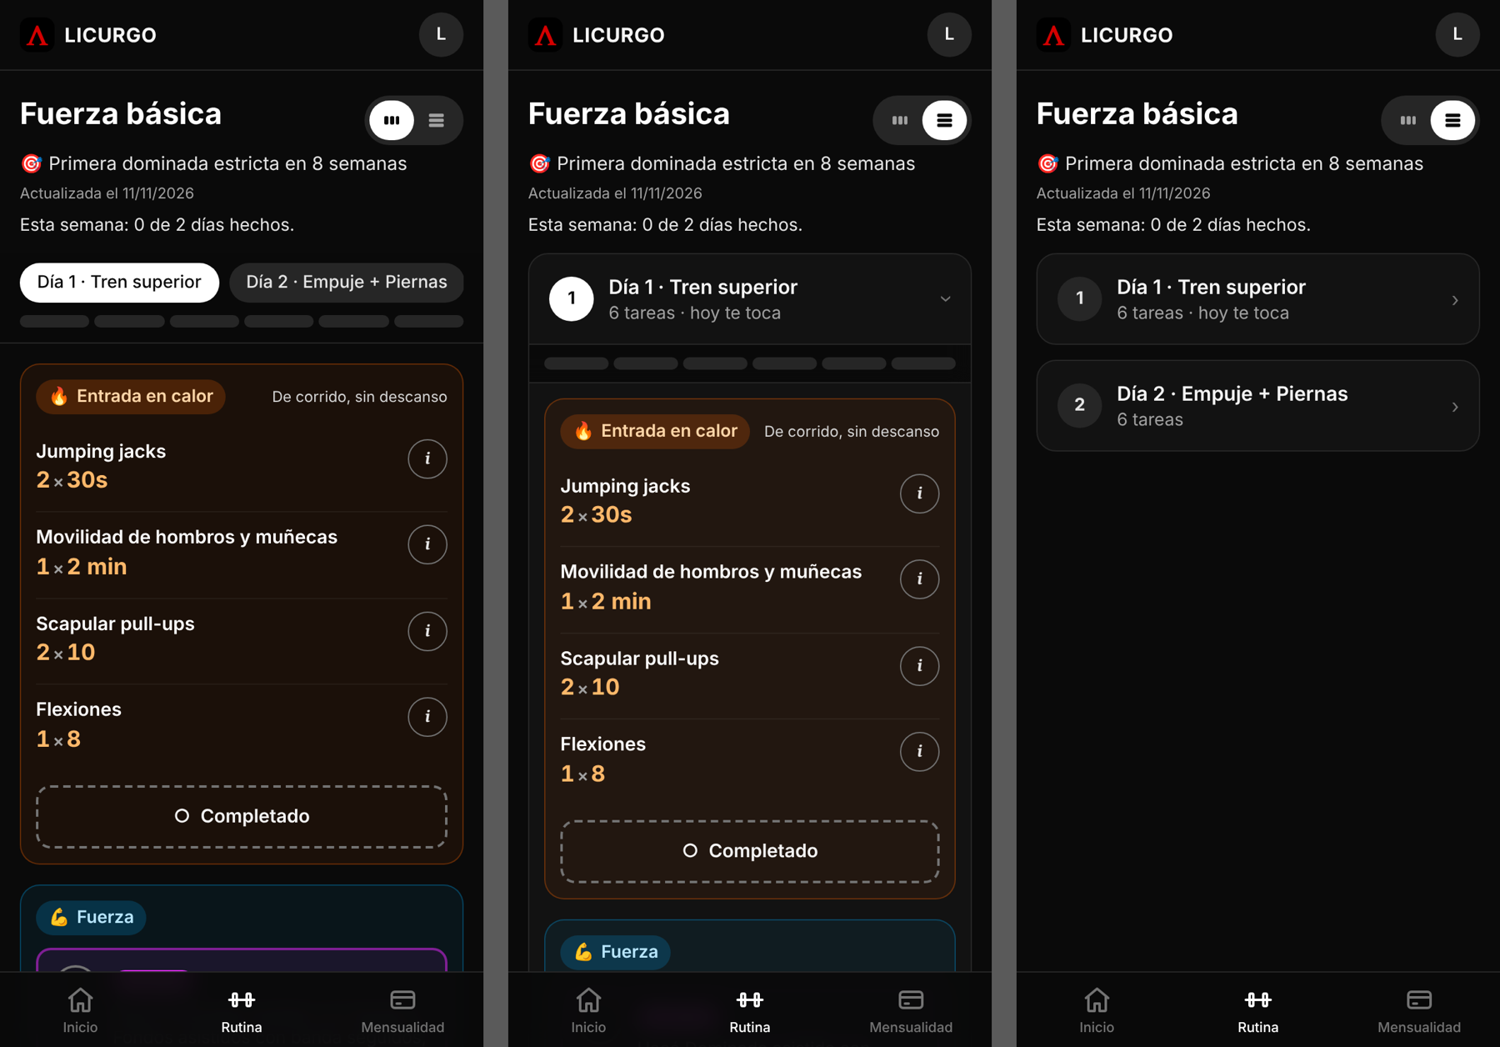
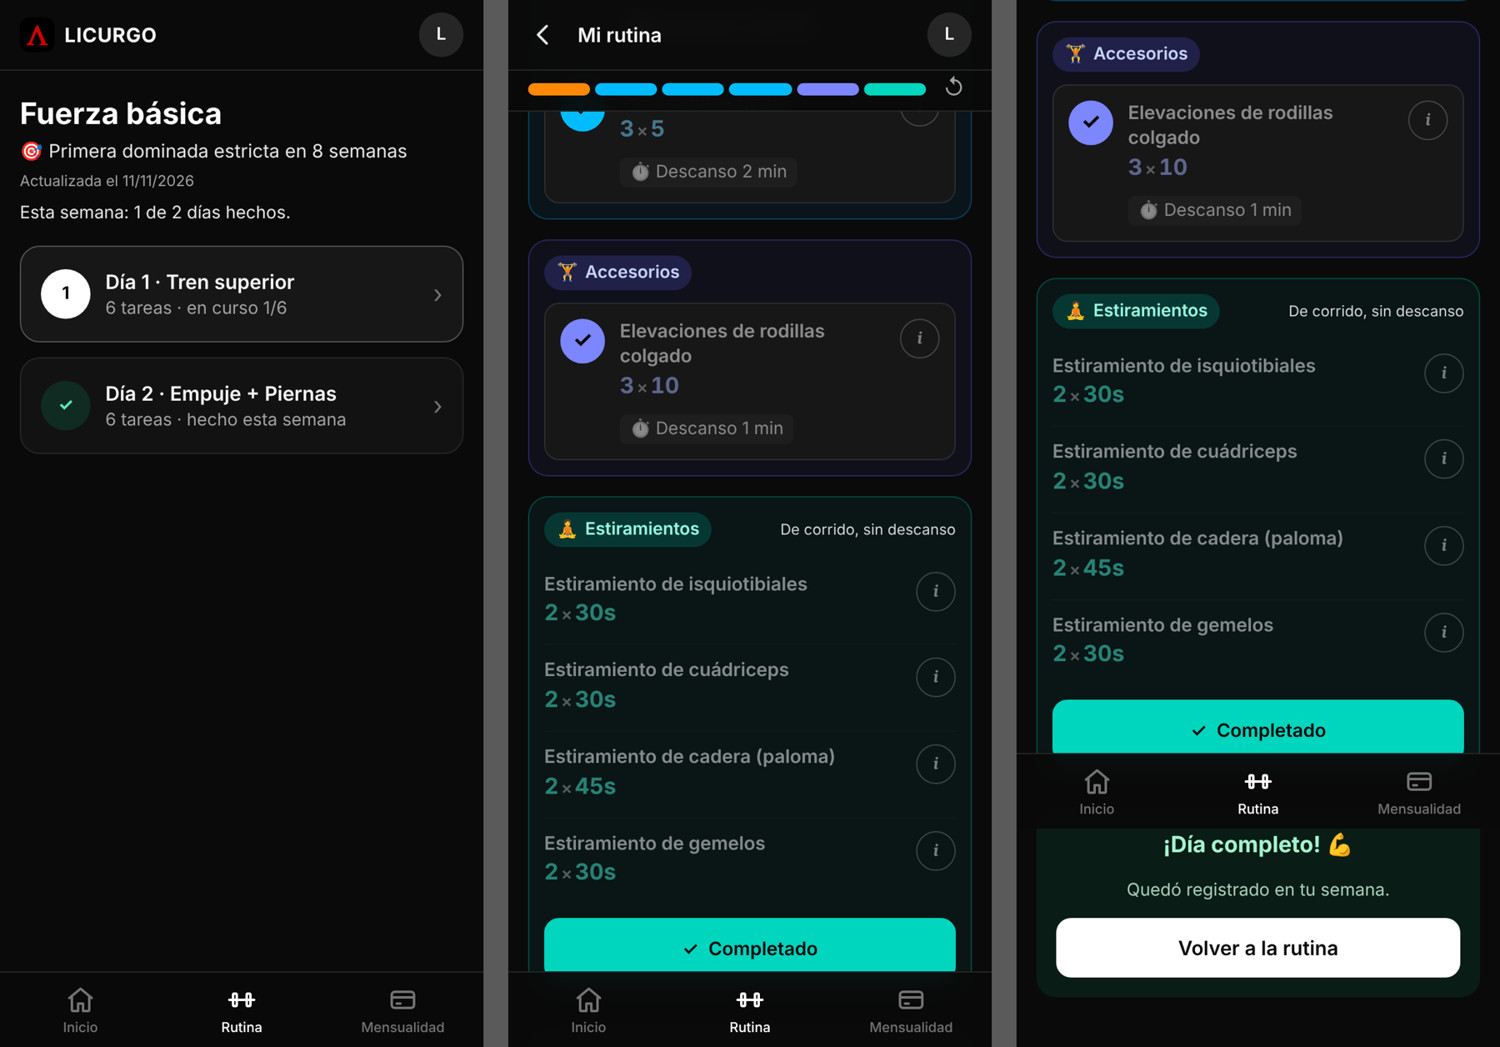
Rutina del alumno: lista de días y cada día en su propia pantalla
- Sin el botón de vistas: /alumno/rutina muestra los días en vertical (hoy te toca, en curso N/M, hecho esta semana)
- Tocar un día abre /alumno/rutina/dia/:numero con "‹" para volver, barra de progreso fija y checklist
- Al completar: "¡Día completo!" con botón para volver a la rutina
- "Entrenar" del Inicio abre directamente el día que toca

Claude-Session: https://claude.ai/code/session_01W37sq4Anm4RfpvTwKy8Nhc

diff --git a/src/pages/alumno/MiRutina.jsx b/src/pages/alumno/MiRutina.jsx
@@ -1,4 +1,5 @@
 import { useEffect, useMemo, useRef, useState } from 'react'
+import { Link, Navigate, useParams } from 'react-router-dom'
 import { supabase } from '../../lib/supabase'
 import { formatearFecha, hoyAR, mensajeError } from '../../lib/utils'
 import { TEXTO_VAMOS, agruparPorDia, nombreCadena, tareasDelDia, textoDescanso } from '../../lib/rutinas'
@@ -9,23 +10,21 @@ import Aviso from '../../components/Aviso'
 import { CADENA, estiloSeccion as estilo } from '../../lib/secciones'
 
 
-// La vista elegida (días en horizontal o lista desplegable) se recuerda en este celular
-const CLAVE_VISTA = 'licurgo.rutina.vista'
-const leerVista = () => { try { return localStorage.getItem(CLAVE_VISTA) === 'lista' ? 'lista' : 'dias' } catch { return 'dias' } }
-const guardarVista = (v) => { try { localStorage.setItem(CLAVE_VISTA, v) } catch { /* sin almacenamiento */ } }
-
 // CU11 – El alumno consulta su rutina activa y va tildando lo que hace en el día.
 // Un tilde por ejercicio, salvo:
 //   · Entrada en calor y Estiramientos → un tilde para toda la sección (se hacen de corrido)
 //   · Bi-series / tri-series           → un tilde para todo el bloque de ejercicios
-// La barra de progreso queda fija arriba al hacer scroll.
-// Dos vistas (botón arriba a la derecha): por días (chips horizontales, un día por vez)
-// o lista (los días uno debajo del otro; tocar uno lo despliega y tocarlo de nuevo lo minimiza).
+// Dos pantallas:
+//   · /alumno/rutina             → los días de la rutina uno debajo del otro
+//   · /alumno/rutina/dia/:numero → la pantalla del día con su checklist (se vuelve con "‹")
+// La barra de progreso del día queda fija arriba al hacer scroll.
 // El checklist se reinicia todos los días; al completar un día queda registrado en la semana
 // (tabla dias_completados) y al día siguiente se abre el próximo día pendiente.
 // Tocando ⓘ se ve la descripción del ejercicio y la observación del coach.
 // Las observaciones privadas del coach (lesiones, etc.) NO se muestran: son otra tabla.
 export default function MiRutina() {
+  const { numero } = useParams()
+  const diaUrl = numero ? Number(numero) : null      // null = lista de días
   const [filas, setFilas] = useState([])
   const [cargando, setCargando] = useState(true)
   const [error, setError] = useState('')
@@ -33,8 +32,6 @@ export default function MiRutina() {
   const [completados, setCompletados] = useState([]) // [{ numero_dia, fecha, creado }] desde el lunes
   const [diaVista, setDiaVista] = useState(null)     // día que se muestra en esta visita
   const cola = useRef(Promise.resolve())              // los cambios en la base salen de a uno, en orden
-  const [vista, setVista] = useState(leerVista)        // 'dias' (horizontal) o 'lista' (vertical, desplegable)
-  const [abierto, setAbierto] = useState(undefined)    // en la lista: día desplegado (undefined = el que toca hoy)
   const diaVistaInicial = useRef(null)                 // el día que tocaba al entrar
 
   useEffect(() => {
@@ -75,7 +72,7 @@ export default function MiRutina() {
   const dias = useMemo(() => agruparPorDia(filas), [filas])
   const rutina = filas[0]
   const hoy = hoyAR()
-  const diaActual = dias.find((d) => d.numero === diaVista) ?? dias[0]
+  const diaActual = dias.find((d) => d.numero === (diaUrl ?? diaVista)) ?? dias[0]
   const tareas = useMemo(() => (diaActual ? tareasDelDia(diaActual.items) : []), [diaActual])
   const hechosSemana = completadosEnSemana(completados, hoy)
   const completo = tareas.length > 0 && tareas.every((t) => check.marcados.includes(t.id))
@@ -105,20 +102,13 @@ export default function MiRutina() {
     setCheck(nuevo)
     guardarChecklist(rutina.rutina_id, nuevo)
   }
-  const elegirDia = (numero, subir = true) => {
-    setDiaVista(numero)
-    actualizar({ ...check, fecha: hoyAR(), dia: numero })
-    if (subir) window.scrollTo({ top: 0, behavior: 'smooth' })
-  }
-  const cambiarVista = (v) => { setVista(v); guardarVista(v) }
-  // Lista: tocar un día lo despliega (y pasa a ser el día del checklist); tocarlo de nuevo lo minimiza
-  const alternarDia = (numero) => {
-    const abiertoAhora = abierto === undefined ? diaActual?.numero : abierto
-    if (abiertoAhora === numero) return setAbierto(null)
-    setAbierto(numero)
-    elegirDia(numero, false)
-    requestAnimationFrame(() => document.getElementById(`dia-${numero}`)?.scrollIntoView({ behavior: 'smooth', block: 'start' }))
-  }
+  // Al abrir la pantalla de un día, ese pasa a ser el día del checklist de hoy
+  useEffect(() => {
+    if (!rutina || !diaUrl || check.dia === diaUrl || !dias.some((d) => d.numero === diaUrl)) return
+    setDiaVista(diaUrl)
+    actualizar({ ...check, fecha: hoyAR(), dia: diaUrl })
+  }, [diaUrl, rutina?.rutina_id]) // eslint-disable-line react-hooks/exhaustive-deps
+
   const marcar = (id) => {
     const quitando = check.marcados.includes(id)
     actualizar(alternarMarca({ ...check, fecha: hoyAR(), dia: diaActual.numero }, id))
@@ -145,17 +135,40 @@ export default function MiRutina() {
   const yaHechoEstaSemana = hechosSemana.has(diaActual.numero) && !completo
   const bloques = [...new Set(tareas.map((t) => t.bloque))]
 
-  const barra = <BarraProgreso tareas={tareas} hecha={hecha} hechos={hechos} onReiniciar={reiniciar} />
-  const contenido = <ContenidoDia tareas={tareas} bloques={bloques} hecha={hecha} marcar={marcar} />
-  const diaAbierto = abierto === undefined ? diaActual.numero : abierto
+  // ----- Pantalla del día -----
+  if (diaUrl) {
+    if (!dias.some((d) => d.numero === diaUrl)) return <Navigate to="/alumno/rutina" replace />
+    return (
+      <div className="mx-auto max-w-md pb-10">
+        <header className="mb-3">
+          <p className="text-sm text-neutral-400">{rutina.rutina}</p>
+          <h1 className="text-2xl font-bold leading-tight text-white">Día {diaActual.numero}{diaActual.nombre && ` · ${diaActual.nombre}`}</h1>
+        </header>
+        <div className="sticky top-[57px] z-[5] -mx-4 mb-4 space-y-1.5 border-b border-neutral-800 bg-neutral-950/95 px-4 pb-3 pt-2.5 backdrop-blur">
+          <BarraProgreso tareas={tareas} hecha={hecha} hechos={hechos} onReiniciar={reiniciar} />
+          {yaHechoEstaSemana && <p className="text-xs text-neutral-400">✓ Este día ya lo hiciste esta semana.</p>}
+        </div>
+        <ContenidoDia tareas={tareas} bloques={bloques} hecha={hecha} marcar={marcar} />
+        {completo && (
+          <div className="mt-6 space-y-3 rounded-2xl bg-emerald-500/10 p-4 text-center">
+            <p className="text-lg font-bold text-emerald-200">¡Día completo! 💪</p>
+            <p className="text-sm text-emerald-100/80">Quedó registrado en tu semana.</p>
+            <Link to="/alumno/rutina" className="block rounded-xl bg-white py-3 font-semibold text-neutral-950">Volver a la rutina</Link>
+          </div>
+        )}
+      </div>
+    )
+  }
 
+  // ----- Lista de días -----
+  const marcadosDe = (d) => {
+    const ids = tareasDelDia(d.items).map((t) => t.id)
+    return { total: ids.length, hechas: check.dia === d.numero ? ids.filter((id) => check.marcados.includes(id)).length : 0 }
+  }
   return (
     <div className="mx-auto max-w-md pb-10">
-      <header className="mb-3">
-        <div className="flex items-start justify-between gap-3">
-          <h1 className="text-2xl font-bold leading-tight text-white">{rutina.rutina}</h1>
-          {dias.length > 1 && <SelectorVista vista={vista} onCambiar={cambiarVista} />}
-        </div>
+      <header className="mb-4">
+        <h1 className="text-2xl font-bold leading-tight text-white">{rutina.rutina}</h1>
         {rutina.objetivo && <p className="mt-1 text-[15px] text-neutral-200">🎯 {rutina.objetivo}</p>}
         <p className="mt-1 text-xs text-neutral-400">Actualizada el {formatearFecha(rutina.fecha_actualizacion)}</p>
         {dias.length > 1 && (
@@ -167,89 +180,35 @@ export default function MiRutina() {
         )}
       </header>
 
-      {vista === 'lista' && dias.length > 1 ? (
-        // Vista vertical: los días uno debajo del otro; tocar despliega o minimiza
-        <div className="space-y-3">
-          {dias.map((d) => {
-            const desplegado = diaAbierto === d.numero
-            const hecho = hechosSemana.has(d.numero)
-            const cantidad = tareasDelDia(d.items).length
-            return (
-              <section key={d.numero} id={`dia-${d.numero}`} className="scroll-mt-16 overflow-hidden rounded-2xl border border-neutral-800 bg-neutral-900/60">
-                <button onClick={() => alternarDia(d.numero)} aria-expanded={desplegado}
-                  className="flex w-full items-center gap-3 px-4 py-3.5 text-left active:bg-neutral-800">
-                  <span className={`flex h-9 w-9 shrink-0 items-center justify-center rounded-full text-sm font-bold ${
-                    hecho ? 'bg-emerald-500/15 text-emerald-300' : desplegado ? 'bg-white text-neutral-950' : 'bg-neutral-800 text-neutral-200'}`}>
-                    {hecho ? '✓' : d.numero}
+      <ul className="space-y-3">
+        {dias.map((d) => {
+          const hecho = hechosSemana.has(d.numero)
+          const { total, hechas } = marcadosDe(d)
+          const enCurso = hechas > 0 && hechas < total
+          const toca = !hecho && d.numero === diaVistaInicial.current
+          return (
+            <li key={d.numero}>
+              <Link to={`/alumno/rutina/dia/${d.numero}`}
+                className={`flex items-center gap-3 rounded-2xl border px-4 py-4 active:bg-neutral-800 ${
+                  toca || enCurso ? 'border-neutral-600 bg-neutral-900' : 'border-neutral-800 bg-neutral-900/60'}`}>
+                <span className={`flex h-10 w-10 shrink-0 items-center justify-center rounded-full text-sm font-bold ${
+                  hecho ? 'bg-emerald-500/15 text-emerald-300' : toca || enCurso ? 'bg-white text-neutral-950' : 'bg-neutral-800 text-neutral-200'}`}>
+                  {hecho ? '✓' : d.numero}
+                </span>
+                <span className="min-w-0 flex-1">
+                  <span className="block truncate font-semibold">Día {d.numero}{d.nombre && ` · ${d.nombre}`}</span>
+                  <span className="block text-sm text-neutral-400">
+                    {total} {total === 1 ? 'tarea' : 'tareas'}
+                    {hecho ? ' · hecho esta semana' : enCurso ? ` · en curso ${hechas}/${total}` : toca ? ' · hoy te toca' : ''}
                   </span>
-                  <span className="min-w-0 flex-1">
-                    <span className="block truncate font-semibold">Día {d.numero}{d.nombre && ` · ${d.nombre}`}</span>
-                    <span className="block text-sm text-neutral-400">
-                      {cantidad} {cantidad === 1 ? 'tarea' : 'tareas'}
-                      {hecho ? ' · hecho esta semana' : d.numero === diaVistaInicial.current ? ' · hoy te toca' : ''}
-                    </span>
-                  </span>
-                  <span aria-hidden className={`text-neutral-500 transition-transform ${desplegado ? 'rotate-90' : ''}`}>›</span>
-                </button>
-                {desplegado && (
-                  <div className="border-t border-neutral-800 px-3 pb-3">
-                    <div className="sticky top-[57px] z-[5] -mx-3 mb-3 border-b border-neutral-800 bg-neutral-950/95 px-3 pb-2.5 pt-2.5 backdrop-blur">
-                      {barra}
-                      {yaHechoEstaSemana && <p className="mt-1.5 text-xs text-neutral-400">✓ Este día ya lo hiciste esta semana.</p>}
-                    </div>
-                    {contenido}
-                  </div>
-                )}
-              </section>
-            )
-          })}
-        </div>
-      ) : (
-        <>
-          {/* Vista por días: fija debajo del menú, días + progreso siempre a la vista */}
-          <div className="sticky top-[57px] z-[5] -mx-4 mb-4 space-y-2.5 border-b border-neutral-800 bg-neutral-950/95 px-4 pb-3 pt-2 backdrop-blur">
-            {dias.length > 1 && (
-              <div className="flex gap-2 overflow-x-auto [scrollbar-width:none]">
-                {dias.map((d) => {
-                  const activo = d.numero === diaActual.numero
-                  const hecho = hechosSemana.has(d.numero)
-                  return (
-                    <button key={d.numero} onClick={() => elegirDia(d.numero)} aria-pressed={activo}
-                      title={hecho ? 'Ya lo hiciste esta semana' : undefined}
-                      className={`whitespace-nowrap rounded-full px-3.5 py-1.5 text-sm font-medium transition-colors ${
-                        activo ? 'bg-white text-neutral-950' : 'bg-neutral-800 text-neutral-200 hover:bg-neutral-700'
-                      }`}>
-                      {hecho && <span aria-label="hecho esta semana" className={activo ? 'text-emerald-600' : 'text-emerald-400'}>✓ </span>}
-                      Día {d.numero}{d.nombre && ` · ${d.nombre}`}
-                    </button>
-                  )
-                })}
-              </div>
-            )}
-            {barra}
-            {yaHechoEstaSemana && <p className="text-xs text-neutral-400">✓ Este día ya lo hiciste esta semana.</p>}
-          </div>
-          {contenido}
-        </>
-      )}
-    </div>
-  )
-}
-
-// Botón para cambiar la vista: días en horizontal (uno por vez) o en lista desplegable
-function SelectorVista({ vista, onCambiar }) {
-  const op = [
-    { id: 'dias', texto: 'Ver por días', icono: <><rect x="3" y="7" width="5" height="10" rx="1.5" /><rect x="10" y="7" width="5" height="10" rx="1.5" /><rect x="17" y="7" width="4" height="10" rx="1.5" /></> },
-    { id: 'lista', texto: 'Ver como lista', icono: <><rect x="3" y="4" width="18" height="4" rx="1.5" /><rect x="3" y="10" width="18" height="4" rx="1.5" /><rect x="3" y="16" width="18" height="4" rx="1.5" /></> },
-  ]
-  return (
-    <div className="flex shrink-0 rounded-full bg-neutral-800 p-1" role="group" aria-label="Vista de la rutina">
-      {op.map((o) => (
-        <button key={o.id} onClick={() => onCambiar(o.id)} aria-pressed={vista === o.id} aria-label={o.texto} title={o.texto}
-          className={`flex h-8 w-9 items-center justify-center rounded-full transition-colors ${vista === o.id ? 'bg-white text-neutral-950' : 'text-neutral-400'}`}>
-          <svg viewBox="0 0 24 24" className="h-4 w-4" fill="currentColor" aria-hidden>{o.icono}</svg>
-        </button>
-      ))}
+                </span>
+                {toca && !enCurso && <span className="shrink-0 rounded-full bg-red-600 px-3 py-1 text-xs font-bold text-white">Hoy</span>}
+                <span aria-hidden className="shrink-0 text-xl text-neutral-500">›</span>
+              </Link>
+            </li>
+          )
+        })}
+      </ul>
     </div>
   )
 }

diff --git a/src/components/LayoutAlumno.jsx b/src/components/LayoutAlumno.jsx
@@ -4,11 +4,12 @@ import { useAuth } from '../context/AuthContext'
 import InstalarApp from './InstalarApp'
 import { Atras, IconoInicio, IconoMensualidad, IconoRutina, IconoSalir } from './Iconos'
 
-// Pantallas secundarias: se abren desde Mensualidad y vuelven con "‹"
-const SECUNDARIAS = {
-  '/alumno/pagar': 'Pagar por transferencia',
-  '/alumno/comprobantes': 'Mis comprobantes',
-}
+// Pantallas secundarias: se abren desde otra pantalla y vuelven con "‹"
+const SECUNDARIAS = [
+  { ruta: /^\/alumno\/pagar$/, titulo: 'Pagar por transferencia', volver: '/alumno/mensualidad' },
+  { ruta: /^\/alumno\/comprobantes$/, titulo: 'Mis comprobantes', volver: '/alumno/mensualidad' },
+  { ruta: /^\/alumno\/rutina\/dia\/\d+$/, titulo: 'Mi rutina', volver: '/alumno/rutina' },
+]
 
 const PESTANIAS = [
   { to: '/alumno', texto: 'Inicio', Icono: IconoInicio, end: true },
@@ -22,7 +23,7 @@ const PESTANIAS = [
 // La barra superior mide 56px + 1px de borde: la barra de progreso de la rutina se pega debajo (top-[57px]).
 export default function LayoutAlumno() {
   const { pathname } = useLocation()
-  const secundaria = SECUNDARIAS[pathname]
+  const secundaria = SECUNDARIAS.find((x) => x.ruta.test(pathname))
 
   return (
     <div className="min-h-screen">
@@ -30,10 +31,10 @@ export default function LayoutAlumno() {
         <div className="mx-auto flex h-14 max-w-md items-center gap-2 px-4">
           {secundaria ? (
             <>
-              <Link to="/alumno/mensualidad" aria-label="Volver" className="-ml-2 flex h-10 w-10 items-center justify-center rounded-full text-neutral-200 active:bg-neutral-800">
+              <Link to={secundaria.volver} aria-label="Volver" className="-ml-2 flex h-10 w-10 items-center justify-center rounded-full text-neutral-200 active:bg-neutral-800">
                 <Atras />
               </Link>
-              <h1 className="min-w-0 flex-1 truncate text-base font-semibold">{secundaria}</h1>
+              <span className="min-w-0 flex-1 truncate text-base font-semibold">{secundaria.titulo}</span>
             </>
           ) : (
             <>

diff --git a/src/pages/alumno/InicioAlumno.jsx b/src/pages/alumno/InicioAlumno.jsx
@@ -160,7 +160,7 @@ function EntrenarHoy({ dia, hechoHoy, hayRutina }) {
     return <p className="rounded-2xl bg-neutral-900 px-4 py-3 text-sm text-neutral-400">Cuando tu coach te arme la rutina, vas a verla acá.</p>
   }
   return (
-    <Link to="/alumno/rutina" className="flex items-center gap-3 rounded-2xl bg-white px-4 py-3.5 text-neutral-950 active:bg-neutral-200">
+    <Link to={hechoHoy || !dia ? '/alumno/rutina' : `/alumno/rutina/dia/${dia.numero}`} className="flex items-center gap-3 rounded-2xl bg-white px-4 py-3.5 text-neutral-950 active:bg-neutral-200">
       <span className="min-w-0 flex-1">
         <span className="block text-xs font-semibold text-neutral-500">{hechoHoy ? 'Ya entrenaste hoy 💪' : 'Hoy te toca'}</span>
         <span className="block truncate text-lg font-bold">

diff --git a/src/lib/actualizacion.js b/src/lib/actualizacion.js
@@ -21,7 +21,7 @@ const CADA = 5 * 60 * 1000
 const CLAVE_RECARGA = 'licurgo.recargado-para'
 
 // Pantallas donde recargar no pierde nada (solo se mira o se tilda; el checklist vive en localStorage)
-const RUTAS_SEGURAS = [/^\/$/, /^\/alumno$/, /^\/alumno\/rutina$/, /^\/alumno\/comprobantes$/, /^\/alumno\/mensualidad$/, /^\/coach$/, /^\/recepcion$/, /^\/admin$/, /^\/admin\/concurrencia$/]
+const RUTAS_SEGURAS = [/^\/$/, /^\/alumno$/, /^\/alumno\/rutina$/, /^\/alumno\/rutina\/dia\/\d+$/, /^\/alumno\/comprobantes$/, /^\/alumno\/mensualidad$/, /^\/coach$/, /^\/recepcion$/, /^\/admin$/, /^\/admin\/concurrencia$/]
 
 export const hayVersionNueva = (publicada, actual = VERSION_APP) =>
   Boolean(publicada) && actual !== 'dev' && publicada !== actual

diff --git a/src/App.jsx b/src/App.jsx
@@ -62,6 +62,7 @@ export default function App() {
           <Route element={<RutaProtegida roles={['Alumno']} />}>
             <Route path="/alumno" element={<InicioAlumno />} />
             <Route path="/alumno/rutina" element={<MiRutina />} />
+            <Route path="/alumno/rutina/dia/:numero" element={<MiRutina />} />
             <Route path="/alumno/mensualidad" element={<Mensualidad />} />
             <Route path="/alumno/pagar" element={<PagarCuota />} />
             <Route path="/alumno/comprobantes" element={<MisComprobantes />} />

diff --git a/docs/modulos/Alumno-app.md b/docs/modulos/Alumno-app.md
@@ -7,7 +7,7 @@ Tres pestañas abajo, como una app de celular:
 | Pestaña | Ruta | Qué tiene |
 |---|---|---|
 | **Inicio** | `/alumno` | Foto de Licurgo con la frase del día, racha, "Hoy te toca", calendario del mes, últimas 8 semanas y contacto con Gero |
-| **Rutina** | `/alumno/rutina` | El checklist del día, con dos vistas |
+| **Rutina** | `/alumno/rutina` | La lista de días; cada día se abre en su propia pantalla con el checklist |
 | **Mensualidad** | `/alumno/mensualidad` | Estado de la cuota, pagar por transferencia, mis comprobantes, apto médico (B4) |
 
 ![Inicio y Mensualidad](img/alumno-inicio.png)
@@ -25,14 +25,13 @@ Tres pestañas abajo, como una app de celular:
 - **Cuota:** si vence en 3 días o venció, un aviso lleva a Mensualidad.
 - **Contacto:** foto de Gero, "Escribile a Gero" → WhatsApp (número de *Datos de cobro*, hoy 381 624-5748).
 
-## Rutina: dos vistas
+## Rutina: lista de días y pantalla del día
 
-Botón arriba a la derecha (se recuerda en el celular):
+- **`/alumno/rutina`**: los días de la rutina uno debajo del otro, con cuántas tareas tienen y su estado: *hoy te toca* (con la etiqueta **Hoy**), *en curso 3/6* o *✓ hecho esta semana*. Sin checklist en esta pantalla, para no sobrecargarla.
+- **`/alumno/rutina/dia/:numero`**: tocar un día abre su pantalla aparte (con "‹" para volver, igual que en Mensualidad). Tiene la barra de progreso fija arriba, las secciones con sus tildes y, al terminar, *"¡Día completo!"* con un botón para volver.
+- Abrir un día lo vuelve el día del checklist de hoy. El botón **Entrenar** del Inicio abre directamente el día que toca.
 
-- **Por días:** los días en horizontal arriba; se elige uno y se ve su rutina (como hasta ahora).
-- **Lista:** los días uno debajo del otro con cuántas tareas tienen y si ya se hicieron esta semana o si "hoy te toca". Tocar un día lo **despliega** (pasa a ser el día del checklist, con su barra de progreso fija arriba) y tocarlo de nuevo lo **minimiza**.
-
-![Vistas de la rutina](img/alumno-rutina-vistas.png)
+![Lista de días y pantalla del día](img/alumno-rutina-vistas.png)
 
 ## Marca
 
@@ -41,4 +40,4 @@ Logo Λ de Licurgo (rojo sobre negro) en los íconos de la app, el encabezado y 
 ## Pruebas
 
 - **Unitarias** (`lib/racha.js`): meta, unión de fuentes sin repetir, semanas lunes a domingo, racha (semana actual a medias no corta, sí suma cuando se cumple, se corta con una semana incompleta), semana en curso, calendario (mes que empieza en domingo, febrero), mensajes, frase estable en el día.
-- **Navegador:** Inicio con historial de 8 semanas (racha 5, 2/3 esta semana), aviso de cuota, contacto; vistas de rutina: cambio, desplegar/minimizar, tildar en la lista, la vista se recuerda al recargar y el día a medias se vuelve a abrir.
+- **Navegador:** Inicio con historial de 8 semanas (racha 5, 2/3 esta semana), aviso de cuota, contacto; rutina: lista de días, pantalla del día con "‹" a la rutina, completar un día ("¡Día completo!" y ✓ en la lista), día a medias "en curso 1/6".
